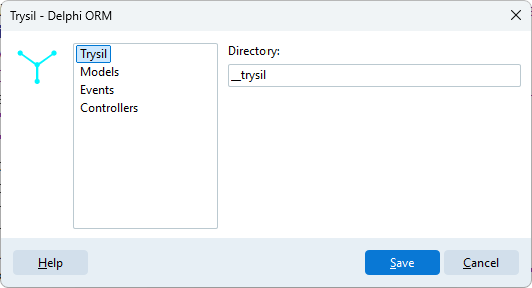
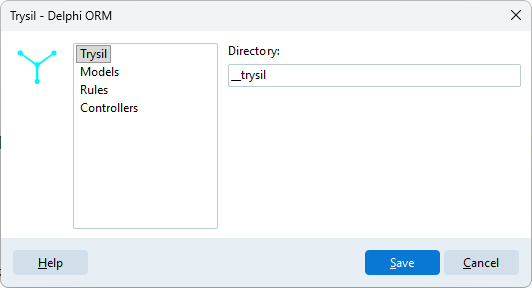
docs(expert): rename events to rules in the generation wizard

Changed region(s): [[0.1203, 0.1562, 0.2105, 0.2188], [0.1504, 0.2812, 0.2105, 0.3438]]

diff --git a/docs/tooling/expert/generate-model.md b/docs/tooling/expert/generate-model.md
@@ -1,10 +1,10 @@
 # Generate entity model
 
-**Trysil > Generate entity model** writes Delphi units for the entities of the model and adds them to the active project: the entity classes, the [event units](#event-units) and, in an API REST project, the [controllers](#api-rest-controllers).
+**Trysil > Generate entity model** writes Delphi units for the entities of the model and adds them to the active project: the entity classes, the [rules units](#rules-units) and, in an API REST project, the [controllers](#api-rest-controllers).
 
 ## The wizard
 
-The dialog is a wizard of four pages: **Back** and **Next** move between them, **Finish** generates. What you choose is remembered for the project in `__trysil\__settings\settings.json`; the defaults come from [Settings](settings.md).
+The dialog is a wizard of four pages: **Back** and **Next** move between them, **Finish** generates. The directories and unit filenames you choose are remembered for the project in `__trysil\__settings\settings.json`, and their defaults come from [Settings](settings.md). The check boxes are not remembered: every time the wizard opens, models, filter properties and controllers are ticked and rules are not.
 
 ### Entities
 
@@ -23,23 +23,23 @@ The entities to generate, all ticked by default. Right click for **Select all en
 | Unit filenames | `{ProjectName}.Model.{EntityName}` | Pattern of the unit names |
 | Generate filter properties companion | Ticked | Adds a `T<Entity>Properties` record to each unit |
 
-**Unit filenames** is used even with **Generate models** not ticked: the event and controller units name the model unit in their `uses` clause.
+**Unit filenames** is used even with **Generate models** not ticked: the rules and controller units name the model unit in their `uses` clause.
 
-### Events
+### Rules
 
-![Events page](images/generate-model-events.png)
+![Rules page](images/generate-model-rules.png)
 
 | Field | Default | Meaning |
 |---|---|---|
-| Generate & register events | Not ticked | Writes an [event unit](#event-units) for each entity that has none yet |
-| Directory | `Events` | Folder of the units, relative to the project folder |
-| Unit filenames | `{ProjectName}.Event.{EntityName}` | Pattern of the unit names |
+| Generate & register rules | Not ticked | Writes a [rules unit](#rules-units) for each entity that has none yet |
+| Directory | `Rules` | Folder of the units, relative to the project folder |
+| Unit filenames | `{ProjectName}.Rule.{EntityName}` | Pattern of the unit names |
 
 ### Controllers
 
 ![Controllers page](images/generate-model-controllers.png)
 
-Shown only in a project created by the [API REST wizard](api-rest.md); in any other project the wizard skips it and **Finish** is on the Events page.
+Shown only in a project created by the [API REST wizard](api-rest.md); in any other project the wizard skips it and **Finish** is on the Rules page.
 
 | Field | Default | Meaning |
 |---|---|---|
@@ -49,11 +49,11 @@ Shown only in a project created by the [API REST wizard](api-rest.md); in any ot
 
 ### Finish
 
-At least one of models, events and controllers has to be ticked. Each can be generated on its own: the events or the controllers of entities whose model units are already there, for instance.
+At least one of models, rules and controllers has to be ticked. Each can be generated on its own: the rules or the controllers of entities whose model units are already there, for instance.
 
 The unit name patterns accept two placeholders, ignoring case: `{ProjectName}`, the name of the `.dproj` without extension, and `{EntityName}`. For the project `OrdersAPI` and the entity `Order` the default gives `OrdersAPI.Model.Order`. Nested folders are allowed in the directories, for example `Source/Model`, and are created when missing.
 
-If a model or controller unit with the same name is already in the project, the Expert lists the units that would be overwritten and asks before continuing. Event units are never overwritten.
+If a model or controller unit with the same name is already in the project, the Expert lists the units that would be overwritten and asks before continuing. Rules units are never overwritten.
 
 ## What is generated
 
@@ -131,14 +131,14 @@ When the database changes, regenerate the units of the entities that changed: th
 - calculated properties and helper methods;
 - an event class tied to the entity with `[TInsertEvent]`, `[TUpdateEvent]` or `[TDeleteEvent]`, which has to live in the unit of the entity.
 
-Keep the model units as the Expert writes them, and put the code you write in units of your own. Business rules go in a `TTEntityEvents<T>` registered with `TTEventRegistration.RegisterEvents<T, E>` from the unit that holds them: the entity knows nothing of it, so regenerating the entity leaves it untouched. See [Registering events without attributes](../../guide/events.md#registering-events-without-attributes). The **Events** page of the wizard writes that unit for you.
+Keep the model units as the Expert writes them, and put the code you write in units of your own. Business rules go in a `TTEntityEvents<T>` registered with `TTEventRegistration.RegisterEvents<T, E>` from the unit that holds them: the entity knows nothing of it, so regenerating the entity leaves it untouched. See [Registering events without attributes](../../guide/events.md#registering-events-without-attributes). The **Rules** page of the wizard writes that unit for you.
 
-## Event units
+## Rules units
 
-With **Generate & register events** ticked, the Expert writes for each selected entity a unit with an empty `TTEntityEvents<T>` and its registration:
+With **Generate & register rules** ticked, the Expert writes for each selected entity a unit with an empty `TTEntityEvents<T>` and its registration:
 
 ```delphi
-unit OrdersAPI.Event.Order;
+unit OrdersAPI.Rule.Order;
 
 interface
 
@@ -152,22 +152,22 @@ uses
 
 type
 
-{ TOrderEvents }
+{ TOrderRules }
 
-  TOrderEvents = class(TTEntityEvents<TOrder>)
+  TOrderRules = class(TTEntityEvents<TOrder>)
   end;
 
 implementation
 
 initialization
-  TTEventRegistration.RegisterEvents<TOrder, TOrderEvents>;
+  TTEventRegistration.RegisterEvents<TOrder, TOrderRules>;
 
 end.
 ```
 
 Override `BeforeInsert`, `AfterInsert`, `BeforeUpdate`, `AfterUpdate`, `BeforeDelete` or `AfterDelete` in it to write the rules.
 
-- **An event unit is written once.** If the file is already on disk, or the unit is already in the project, the entity is skipped without a question: the unit is yours from the moment it is created.
+- **A rules unit is written once.** If the file is already on disk, or the unit is already in the project, the entity is skipped without a question: the unit is yours from the moment it is created.
 - **The unit is added to the project.** The registration runs in its `initialization`, and a unit outside the project would never run it: its events would silently not fire. Do not remove it from the project.
 - **Generate it only where there are rules.** An entity with registered events creates an event object at every insert, update and delete, even when the class is empty.
 

diff --git a/CHANGELOG.md b/CHANGELOG.md
@@ -37,8 +37,8 @@ Not released yet: what this section describes is on `master` and in no tag.
 
 ### Expert
 
-- **The "Generate entity model" dialog is a wizard and writes the event units too.** Its pages are Entities, Models, Events and Controllers, the last shown only in a project created by the API REST wizard. **Generate & register events** writes, for each selected entity that has none yet, a unit with an empty `TTEntityEvents<T>` and its `TTEventRegistration.RegisterEvents<T, E>` in the `initialization`, and adds it to the project: it is never overwritten, so the business rules written in it survive the regeneration of the model. Models, events and controllers can each be generated on its own, and at least one is asked for.
-- **Folders and unit names of events and controllers are settings.** Like the models, each has a directory and a unit filename pattern, `Events` / `{ProjectName}.Event.{EntityName}` and `Controllers` / `{ProjectName}.Controller.{EntityName}` by default: in **Settings** for every project, in the wizard for the current one. The controllers had both written in the code. The Settings dialog chooses its page from a tree on the left.
+- **The "Generate entity model" dialog is a wizard and writes the rules units too.** Its pages are Entities, Models, Rules and Controllers, the last shown only in a project created by the API REST wizard. **Generate & register rules** writes, for each selected entity that has none yet, a unit with an empty `TTEntityEvents<T>` and its `TTEventRegistration.RegisterEvents<T, E>` in the `initialization`, and adds it to the project, in `Rules` as `{ProjectName}.Rule.{EntityName}` with the class `T<Entity>Rules` by default: it is never overwritten, so the business rules written in it survive the regeneration of the model. Models, events and controllers can each be generated on its own, and at least one is asked for. The check boxes start from the same defaults every time, only folders and unit names are remembered.
+- **Folders and unit names of rules and controllers are settings.** Like the models, each has a directory and a unit filename pattern, `Rules` / `{ProjectName}.Rule.{EntityName}` and `Controllers` / `{ProjectName}.Controller.{EntityName}` by default: in **Settings** for every project, in the wizard for the current one. The controllers had both written in the code. The Settings dialog chooses its page from a tree on the left.
 - **The panels of the Expert dialogs take the colours they were designed with.** The content area had the colour of the buttons bar and the buttons bar that of the content area.
 
 ## 2.0.0 - Audit Integrity, Directional JSon Attributes & Fail-Safe Startup

diff --git a/docs/tooling/expert/settings.md b/docs/tooling/expert/settings.md
@@ -4,20 +4,20 @@
 
 ![Settings](images/settings.png)
 
-The tree on the left chooses the page: **Trysil**, **Models**, **Events** or **Controllers**.
+The tree on the left chooses the page: **Trysil**, **Models**, **Rules** or **Controllers**.
 
 | Page | Field | Default | Meaning |
 |---|---|---|---|
 | Trysil | Directory | `__trysil` | Folder, relative to the project, where the entity model is saved |
 | Models | Directory | `Model` | Default folder of the generated entity units |
 | Models | Unit filenames | `{ProjectName}.Model.{EntityName}` | Default pattern of the unit names |
-| Events | Directory | `Events` | Default folder of the generated event units |
-| Events | Unit filenames | `{ProjectName}.Event.{EntityName}` | Default pattern of the event unit names |
+| Rules | Directory | `Rules` | Default folder of the generated rules units |
+| Rules | Unit filenames | `{ProjectName}.Rule.{EntityName}` | Default pattern of the rules unit names |
 | Controllers | Directory | `Controllers` | Default folder of the generated controller units |
 | Controllers | Unit filenames | `{ProjectName}.Controller.{EntityName}` | Default pattern of the controller unit names |
 
 ## Defaults and project settings
 
-The directories and unit filenames of **Models**, **Events** and **Controllers** are only the starting values. The first time you confirm [Generate entity model](generate-model.md) in a project, the values in that dialog are saved with the project, in `__trysil\__settings\settings.json`, and from then on the project uses its own values: changing the settings later does not affect it. A project saved before events and controllers had their own settings takes them from here until its next generation.
+The directories and unit filenames of **Models**, **Rules** and **Controllers** are only the starting values. The first time you confirm [Generate entity model](generate-model.md) in a project, the values in that dialog are saved with the project, in `__trysil\__settings\settings.json`, and from then on the project uses its own values: changing the settings later does not affect it. A project saved before rules and controllers had their own settings takes them from here until its next generation.
 
 **Trysil > Directory** is different: it is read every time, for every project. If you change it, the Expert looks for the model of all your projects in the new folder, so set it once, before you start, and leave it.

diff --git a/docs/tooling/expert/index.md b/docs/tooling/expert/index.md
@@ -22,7 +22,7 @@ Once installed, the Expert adds a **Trysil** menu to the IDE main menu, just bef
 |---|---|---|
 | [Design entity model](design.md) | Opens the visual designer for entities and columns | Yes |
 | [Generate DDL script](generate-sql.md) | Writes the CREATE script, or the ALTER script from a reference database | Yes |
-| [Generate entity model](generate-model.md) | Writes the entity units, and optionally their event units and the API REST controllers | Yes |
+| [Generate entity model](generate-model.md) | Writes the entity units, and optionally their rules units and the API REST controllers | Yes |
 | [Install AI assistant skills](../ai-skills.md) | Writes the AI assistant skills into the project | Yes |
 | [Create new Trysil API REST](api-rest.md) | Creates a new API REST project from the template | No, only when **no** project is open |
 | [Settings](settings.md) | Default folders and unit names | Yes |
